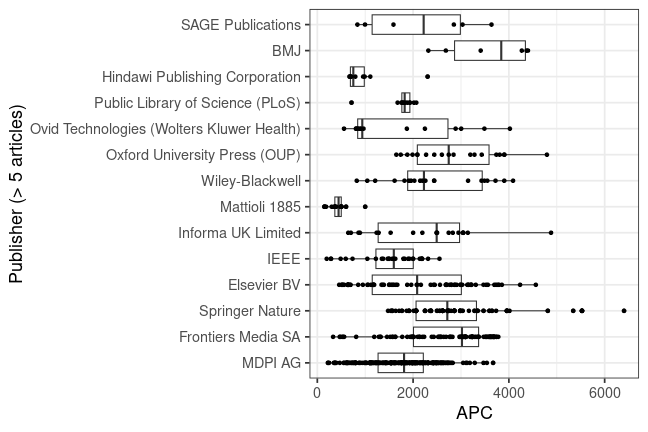
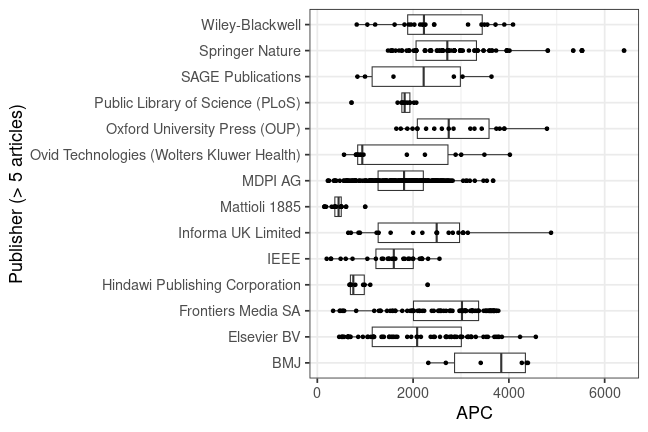
update: modena u apc data 2022+2023

diff --git a/_posts/2024-05-21-modena.md b/_posts/2024-05-21-modena.md
@@ -14,7 +14,7 @@ comments: true
 
 The [Università degli Studi di Modena e Reggio Emilia](https://international.unimore.it/) (Unimore) has updated its APC expenditures, providing data for the 2022-2023 period.
 
-The [Unimore Libraries](https://www.libraries.unimore.it/site/home.html) manage services related to [Open Access](https://www.pop.unimore.it/open-access/).
+The [Unimore Libraries](https://www.libraries.unimore.it/site/home.html) manage services related to [Open Access](https://www.pop-en.unimore.it/open-access/).
 
 Contact Person is [Andrea Solieri](mailto:andrea.solieri@unimore.it).
 
@@ -30,75 +30,46 @@ The following table provides an overview of the new data:
 
 |                                                                 | Articles| Fees paid in EURO| Mean Fee paid|
 |:----------------------------------------------------------------|--------:|-----------------:|-------------:|
-|MDPI AG                                                          |      282|            495606|          1757|
-|Frontiers Media SA                                               |       95|            253454|          2668|
-|Springer Nature                                                  |       90|            257958|          2866|
-|Elsevier BV                                                      |       71|            150005|          2113|
-|IEEE                                                             |       29|             43994|          1517|
-|Informa UK Limited                                               |       20|             44502|          2225|
-|Mattioli 1885                                                    |       20|              8701|           435|
-|Wiley-Blackwell                                                  |       20|             49209|          2460|
-|Oxford University Press (OUP)                                    |       19|             54399|          2863|
-|Ovid Technologies (Wolters Kluwer Health)                        |       14|             24148|          1725|
-|Public Library of Science (PLoS)                                 |       12|             21181|          1765|
-|Hindawi Publishing Corporation                                   |       10|              9590|           959|
-|BMJ                                                              |        6|             21452|          3575|
-|SAGE Publications                                                |        6|             12944|          2157|
-|American Chemical Society (ACS)                                  |        5|              6172|          1234|
-|American Society for Microbiology                                |        5|              8381|          1676|
-|Società Editrice Universo                                        |        4|              1172|           293|
-|American Thoracic Society                                        |        3|              3977|          1326|
-|PAGEPress Publications                                           |        3|              1924|           641|
+|MDPI AG                                                          |      130|            245728|          1890|
+|Frontiers Media SA                                               |       54|            151215|          2800|
+|Springer Nature                                                  |       48|            140993|          2937|
+|Elsevier BV                                                      |       31|             78520|          2533|
+|Institute of Electrical & Electronics Engineers (IEEE)           |       18|             22967|          1276|
+|Mattioli 1885                                                    |       14|              5737|           410|
+|Wiley-Blackwell                                                  |       12|             31637|          2636|
+|Informa UK Limited                                               |        9|             20163|          2240|
+|Oxford University Press (OUP)                                    |        9|             25552|          2839|
+|Ovid Technologies (Wolters Kluwer Health)                        |        7|             13409|          1916|
+|Public Library of Science (PLoS)                                 |        6|             10546|          1758|
+|BMJ                                                              |        3|             13038|          4346|
+|SAGE Publications                                                |        3|              7484|          2495|
 |AME Publishing Company                                           |        2|              3093|          1547|
-|American Medical Association (AMA)                               |        2|              9284|          4642|
-|ASTES Journal                                                    |        2|              1093|           546|
-|BioScientifica                                                   |        2|              3117|          1558|
-|Canadian Center of Science and Education                         |        2|               739|           369|
-|EMBO                                                             |        2|             12578|          6289|
 |F1000 Research, Ltd.                                             |        2|              2567|          1283|
-|Longdom Group                                                    |        2|              4072|          2036|
-|Royal Society of Chemistry (RSC)                                 |        2|              2396|          1198|
-|S. Karger AG                                                     |        2|              2569|          1285|
-|Spandidos Publications                                           |        2|              2172|          1086|
-|The Endocrine Society                                            |        2|              3762|          1881|
+|Hindawi Publishing Corporation                                   |        2|              1900|           950|
+|American Chemical Society (ACS)                                  |        1|              1864|          1864|
 |American Geophysical Union (AGU)                                 |        1|              1903|          1903|
+|American Medical Association (AMA)                               |        1|              5854|          5854|
+|American Society for Microbiology                                |        1|              2125|          2125|
 |American Society of Clinical Oncology (ASCO)                     |        1|               944|           944|
-|American Society of Hematology                                   |        1|              3227|          3227|
+|American Thoracic Society                                        |        1|              1557|          1557|
 |Anticancer Research USA Inc.                                     |        1|               903|           903|
-|Association for Computing Machinery (ACM)                        |        1|              1372|          1372|
-|Babes-Bolyai University                                          |        1|               305|           305|
-|Bentham Science Publishers Ltd.                                  |        1|              1716|          1716|
 |Biomedical Research Network, LLC                                 |        1|               383|           383|
-|Carbone Editore S.R.L.                                           |        1|               978|           978|
-|Cell Physiol Biochem Press GmbH and Co KG                        |        1|              1830|          1830|
-|Chiriotti Editori                                                |        1|              1145|          1145|
-|ClinMed International Library                                    |        1|               534|           534|
 |Copernicus GmbH                                                  |        1|              2724|          2724|
 |eLife Sciences Publications, Ltd                                 |        1|              3457|          3457|
-|Ferrata Storti Foundation (Haematologica)                        |        1|               488|           488|
-|Firenze University Press                                         |        1|               700|           700|
 |Frontiers in Medical Case Reports                                |        1|              2070|          2070|
 |Gavin Publishers                                                 |        1|              2338|          2338|
-|Green Publishers                                                 |        1|               346|           346|
-|Impact Journals, LLC                                             |        1|              3537|          3537|
 |IMR Press                                                        |        1|              1724|          1724|
-|Institution of Engineering and Technology (IET)                  |        1|              2052|          2052|
 |International Information and Engineering Technology Association |        1|               335|           335|
 |International Scientific Information, Inc.                       |        1|              1173|          1173|
 |IOP Publishing                                                   |        1|              2898|          2898|
-|IOS Press                                                        |        1|              1525|          1525|
 |Knowledge Enterprise Journals                                    |        1|               592|           592|
 |Korean Diabetes Association                                      |        1|               559|           559|
 |Micropaleontological Foundation MicroPress Europe                |        1|               334|           334|
-|Nofer Institute of Occupational Medicine                         |        1|               793|           793|
-|Optica Publishing Group                                          |        1|              2150|          2150|
-|Pakistan Journal of Medical & Health Sciences                    |        1|               252|           252|
 |Peeters                                                          |        1|               262|           262|
-|Remedy Publications, LLC                                         |        1|              2032|          2032|
-|SAE International                                                |        1|               760|           760|
+|Royal Society of Chemistry (RSC)                                 |        1|              1233|          1233|
 |Scientific Societies                                             |        1|               621|           621|
-|Sercrisma International                                          |        1|              1098|          1098|
-|Stellenbosch University                                          |        1|               356|           356|
+|Società Editrice Universo                                        |        1|               244|           244|
+|Spandidos Publications                                           |        1|              1086|          1086|
 |The Royal Society                                                |        1|              1757|          1757|
 |Verduci                                                          |        1|              1525|          1525|
 |Walter de Gruyter GmbH                                           |        1|               427|           427|
